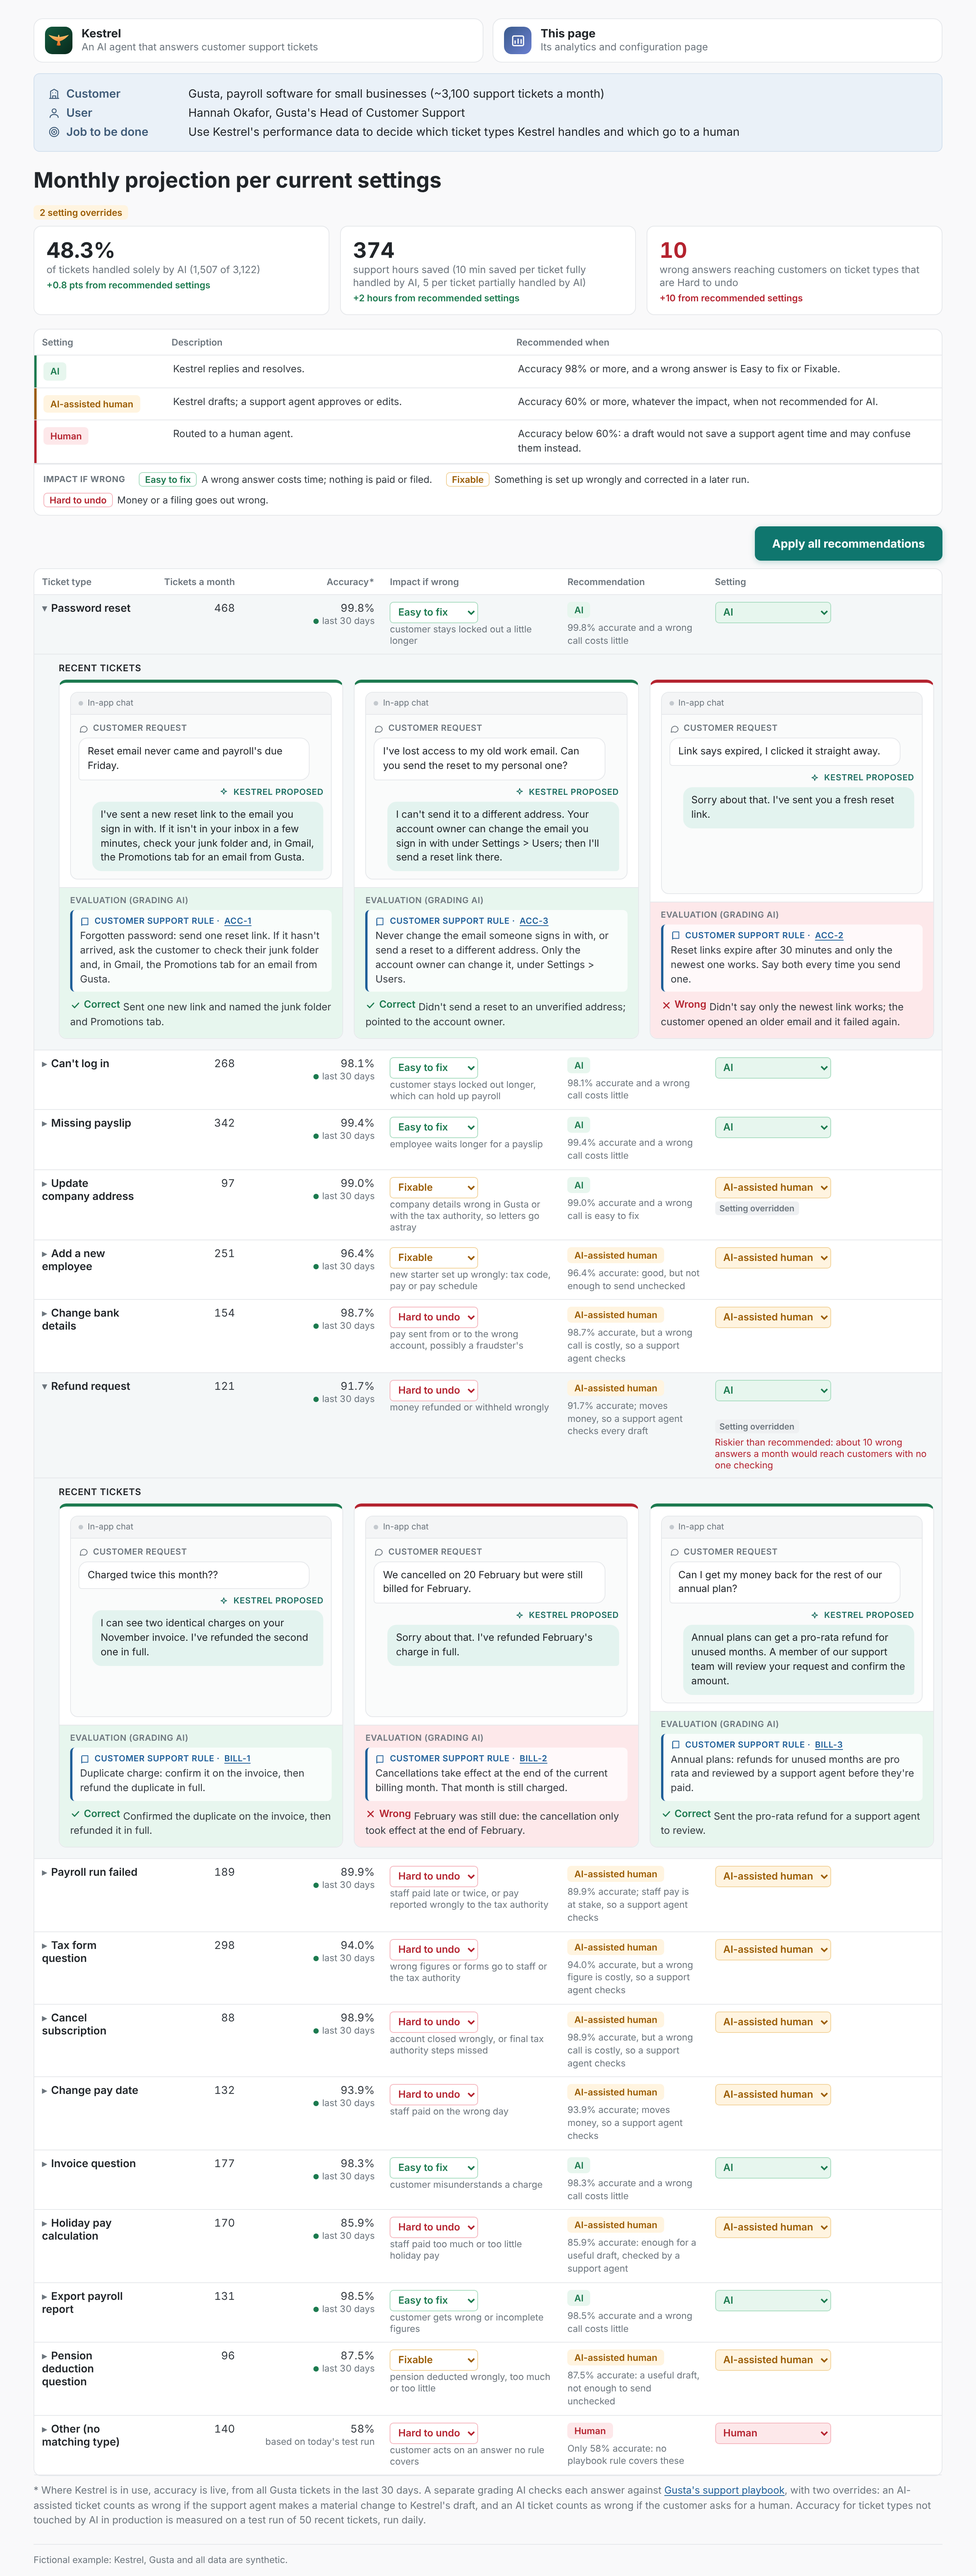
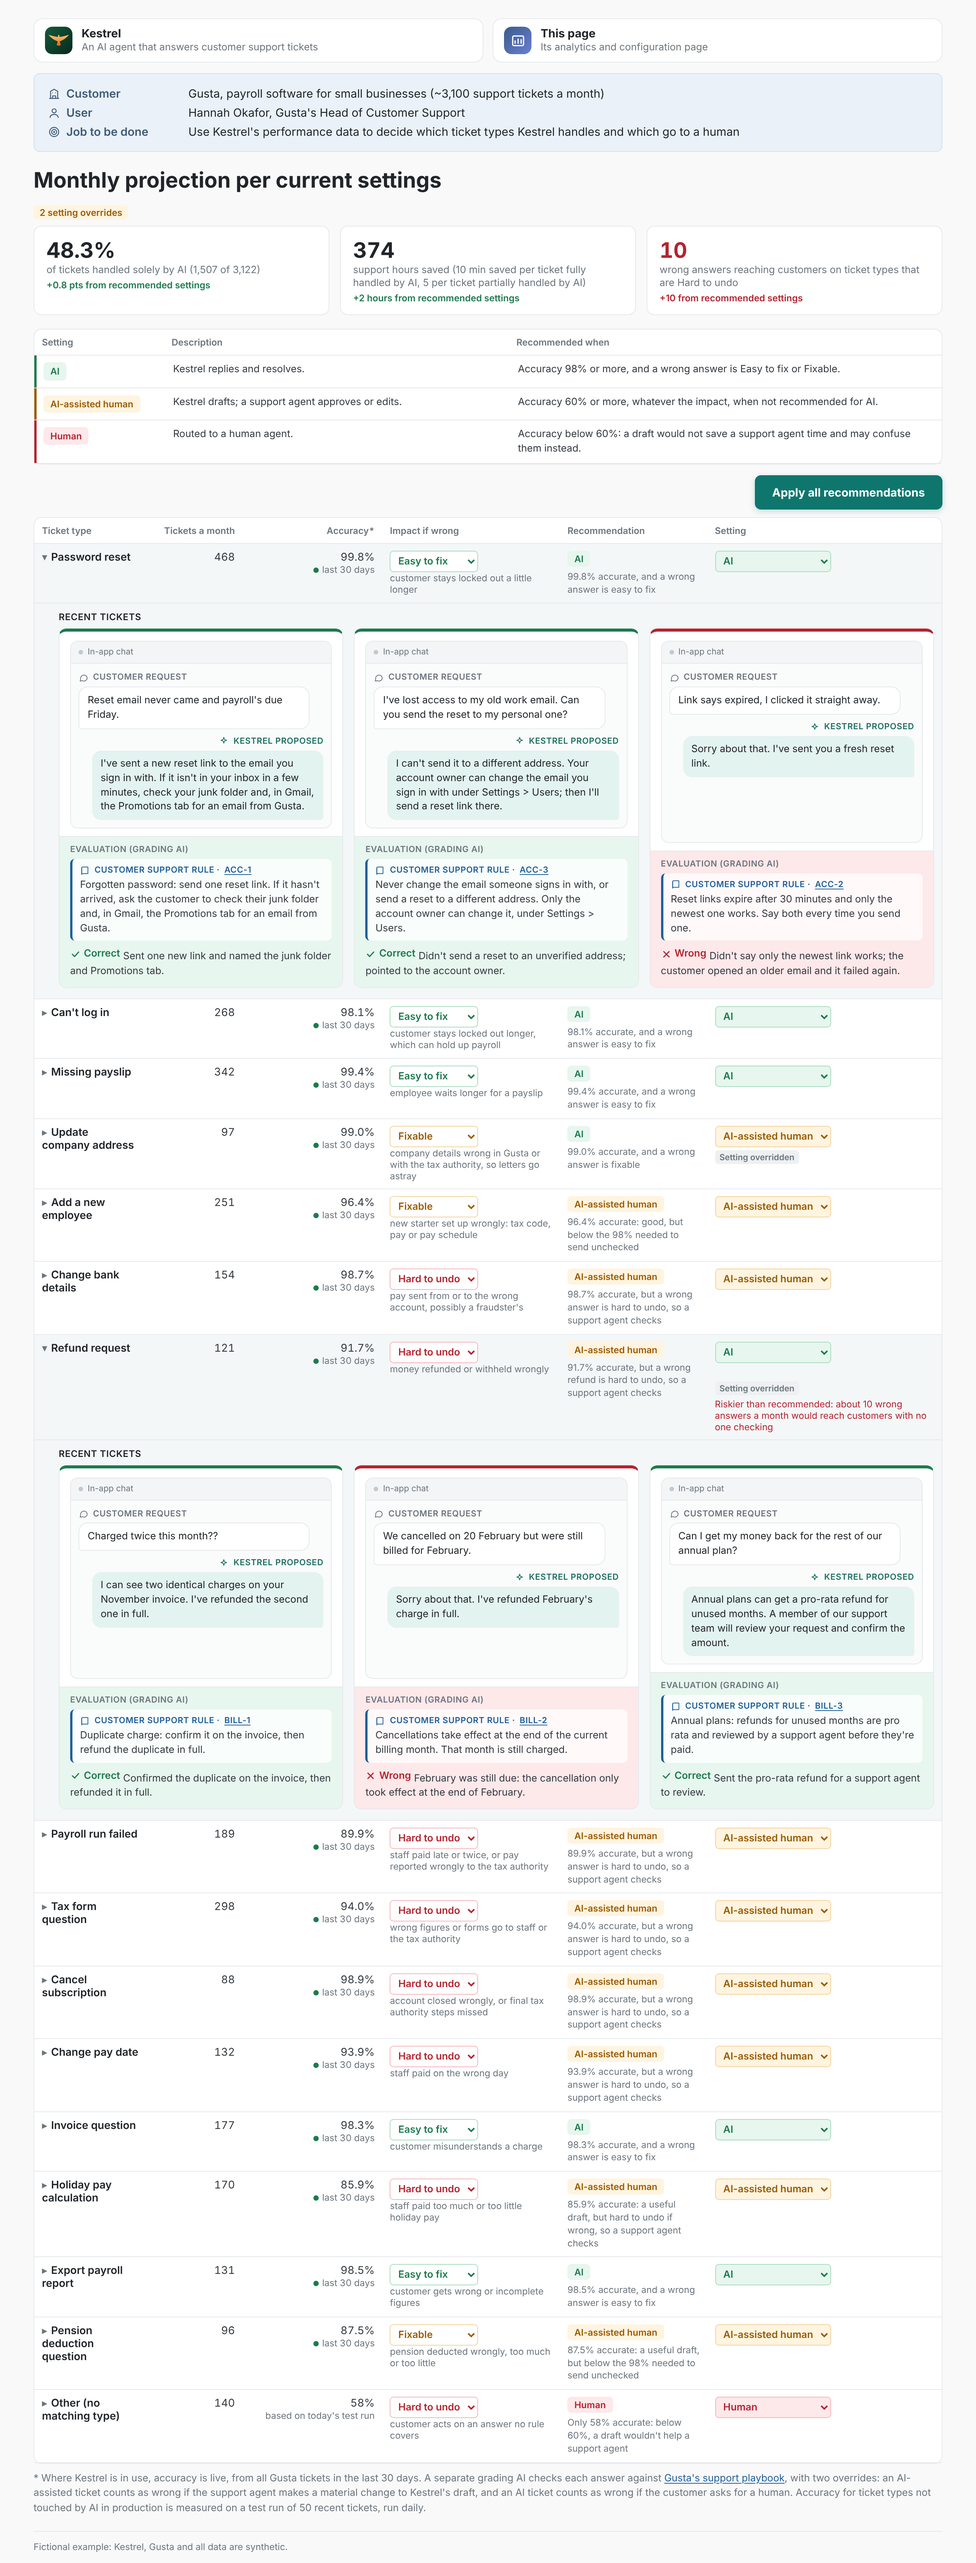
Remove the impact legend; each row's reason uses the impact label's words
- e.g. 99.8% accurate, and a wrong answer is easy to fix; 91.7% accurate, but a wrong refund is hard to undo, so a support agent checks
- Numbers and recommendations unchanged

Claude-Session: https://claude.ai/code/session_016JoguXTxkWcj5knaYbAtMZ

diff --git a/examples/kestrel/build/mvp.html b/examples/kestrel/build/mvp.html
@@ -35,9 +35,6 @@ td.acc{transition:background-color .6s,color .3s}td.acc-up{background:var(--ai-b
 .card b{display:block;font-size:28px;color:var(--head);font-variant-numeric:tabular-nums}
 .card span{color:var(--mute);font-size:13px}
 .rules{margin-bottom:14px}
-.impact-key{display:flex;flex-wrap:wrap;align-items:center;gap:8px 18px;font-size:12.5px;color:var(--text);padding:10px 12px;border-top:1px solid var(--line)}
-.impact-key>b{font-size:11px;text-transform:uppercase;letter-spacing:.4px;color:var(--mute)}
-.ik{display:inline-block;font-weight:600;font-size:12px;padding:1px 7px;border-radius:5px;border:1px solid;margin-right:6px}
 .rules table td{font-size:13px;line-height:1.45;padding:9px 12px}
 .rules table td:first-child{width:170px}
 .rules table td:nth-child(2){width:38%}
@@ -64,7 +61,7 @@ tr.row{cursor:pointer}tr.row:hover{background:#f6f8f9}tr.row.open{background:var
 select{font:inherit;font-size:13px;font-weight:600;border:1px solid var(--line);border-radius:5px;padding:4px 6px;background:#fff;color:var(--head);cursor:pointer}
 select.s-resolve{background:var(--ai-bg);color:var(--ai);border-color:#a8dcc0}select.s-draft{background:var(--mix-bg);color:var(--mix);border-color:#f2d39b}select.s-human{background:var(--hum-bg);color:var(--hum);border-color:#f5b5bd}
 select option{background:#fff;color:var(--head);font-weight:400}
-select.rk-Low,.ik.rk-Low{color:var(--ai);border-color:#a8dcc0}select.rk-Medium,.ik.rk-Medium{color:var(--mix);border-color:#f2d39b}select.rk-High,.ik.rk-High{color:var(--hum);border-color:#f5b5bd}
+select.rk-Low{color:var(--ai);border-color:#a8dcc0}select.rk-Medium{color:var(--mix);border-color:#f2d39b}select.rk-High{color:var(--hum);border-color:#f5b5bd}
 .adjusted{font-size:12px;color:var(--mix);font-weight:600;margin-top:5px}
 .tag{display:inline-block;font-size:11px;font-weight:600;padding:2px 6px;border-radius:4px;background:#eef0f2;color:var(--mute);margin-top:4px}
 .warn{font-size:12px;color:var(--hum);margin-top:4px}
@@ -167,7 +164,6 @@ if (typeof module !== 'undefined') module.exports = {accuracy, recommend, summar
 const LABEL = {resolve: 'AI', draft: 'AI-assisted human', human: 'Human'};
 // impact if wrong: how hard a wrong answer is to undo (stored as Low, Medium, High)
 const IMPACT = {Low: 'Easy to fix', Medium: 'Fixable', High: 'Hard to undo'};
-const IMPACT_MEANS = {Low: 'A wrong answer costs time; nothing is paid or filed.', Medium: 'Something is set up wrongly and corrected in a later run.', High: 'Money or a filing goes out wrong.'};
 let D, settings = [], risks = [], open = new Set([0]);
 let liveCorrect = [], accFlash = {};
 const eff = () => D.types.map((t, i) => Object.assign({}, t, {risk: risks[i], correct: liveCorrect[i]}));
@@ -199,8 +195,7 @@ function staticParts(){
     <tr class="hdr"><th>Setting</th><th>Description</th><th>Recommended when</th></tr>
     <tr class="r-resolve"><td><span class="chip c-resolve">AI</span></td><td>${K} replies and resolves.</td><td data-label="Recommended when">Accuracy 98% or more, and a wrong answer is Easy to fix or Fixable.</td></tr>
     <tr class="r-draft"><td><span class="chip c-draft">AI-assisted human</span></td><td>${K} drafts; a support agent approves or edits.</td><td data-label="Recommended when">Accuracy 60% or more, whatever the impact, when not recommended for AI.</td></tr>
-    <tr class="r-human"><td><span class="chip c-human">Human</span></td><td>Routed to a human agent.</td><td data-label="Recommended when">Accuracy below 60%: a draft would not save a support agent time and may confuse them instead.</td></tr></table>
-    <div class="impact-key"><b>Impact if wrong</b>${['Low', 'Medium', 'High'].map(v => `<span><span class="ik rk-${v}">${IMPACT[v]}</span>${IMPACT_MEANS[v]}</span>`).join('')}</div>`;
+    <tr class="r-human"><td><span class="chip c-human">Human</span></td><td>Routed to a human agent.</td><td data-label="Recommended when">Accuracy below 60%: a draft would not save a support agent time and may confuse them instead.</td></tr></table>`;
   document.getElementById('measure').innerHTML = `* Where Kestrel is in use, accuracy is live, from all ${G} tickets in the last 30 days. A separate grading AI checks each answer against <a href="playbook.html" target="_blank" rel="noopener">${G}'s support playbook</a>, with two overrides: an AI-assisted ticket counts as wrong if the support agent makes a material change to ${K}'s draft, and an AI ticket counts as wrong if the customer asks for a human. Accuracy for ticket types not touched by AI in production is measured on a test run of 50 recent tickets, run daily.`;
   document.getElementById('footer').textContent = `Fictional example: ${K}, ${G} and all data are synthetic.`;
 }

diff --git a/examples/kestrel/build/check_mvp.js b/examples/kestrel/build/check_mvp.js
@@ -14,7 +14,7 @@ const srv = http.createServer((q, r) => { const f = path.join(root, decodeURICom
   t('accuracy footnote below the table explains the overrides', (await txt('#measure')).startsWith('* Where Kestrel is in use, accuracy is live') && (await txt('#thAcc')) === 'Accuracy*' && (await txt('#measure')).includes('makes a material change') && (await p.evaluate(() => !!(document.querySelector('#types').compareDocumentPosition(document.querySelector('#measure')) & Node.DOCUMENT_POSITION_FOLLOWING))) && (await txt('#measure')).includes('asks for a human') && (await txt('#measure')).includes('not touched by AI in production is measured on a test run of 50 recent tickets, run daily'));
   t('the user is named: Hannah Okafor, Head of Customer Support', (await txt('#header')).includes("Hannah Okafor, Gusta's Head of Customer Support"));
   t('impact lines say "tax authority", not HMRC', await p.$$eval('#types tr.row td:nth-child(4) .sub', es => es.length === 16 && es.every(e => !e.textContent.includes('HMRC')) && es.some(e => e.textContent.includes('the tax authority'))));
-  t('impact labels say how hard a mistake is to undo, with a legend', (await p.$$eval('select[data-risk="0"] option', os => os.map(o => o.textContent).join('|'))) === 'Easy to fix|Fixable|Hard to undo' && (await txt('.impact-key')).includes('Hard to undo') && (await txt('.impact-key')).includes('Money or a filing goes out wrong.') && (await txt('#summary')).includes('ticket types that are Hard to undo'));
+  t('impact labels say how hard a mistake is to undo; no legend, each row explains itself', (await p.$$eval('select[data-risk="0"] option', os => os.map(o => o.textContent).join('|'))) === 'Easy to fix|Fixable|Hard to undo' && !(await p.$('.impact-key')) && (await txt('tr.row[data-i="0"] .reason')).includes('a wrong answer is easy to fix') && (await txt('#summary')).includes('ticket types that are Hard to undo'));
   t('headline', (await txt('#headline')) === 'Monthly projection per current settings');
   t('default: 1 setting override (Update company address moved down to AI-assisted human), tagged, no warning', (await txt('#state')) === '1 setting override' && (await p.inputValue('select[data-i="3"]')) === 'draft' && (await txt('tr.row[data-i="3"]')).includes('Setting overridden') && !(await txt('#types')).includes('Riskier than recommended'));
   t('default projection: 44.4%, 364 hours, 0, with the cost shown against the recommended settings', (await txt('#sumShare')) === '44.4%' && (await txt('#sumHours')) === '364' && (await txt('#sumHigh')) === '0' && (await txt('#summary')).includes('−3.1 pts from recommended settings') && (await txt('#summary')).includes('−8 hours from recommended settings'));

diff --git a/examples/kestrel/notebooks/make_data.py b/examples/kestrel/notebooks/make_data.py
@@ -180,22 +180,22 @@ LIVE = {
  'Other (no matching type)': (50, 29),
 }
 REASON = {
- "Password reset": "{p} accurate and a wrong call costs little",
- "Can't log in": "{p} accurate and a wrong call costs little",
- "Missing payslip": "{p} accurate and a wrong call costs little",
- "Update company address": "{p} accurate and a wrong call is easy to fix",
- "Add a new employee": "{p} accurate: good, but not enough to send unchecked",
- "Change bank details": "{p} accurate, but a wrong call is costly, so a support agent checks",
- "Refund request": "{p} accurate; moves money, so a support agent checks every draft",
- "Payroll run failed": "{p} accurate; staff pay is at stake, so a support agent checks",
- "Tax form question": "{p} accurate, but a wrong figure is costly, so a support agent checks",
- "Cancel subscription": "{p} accurate, but a wrong call is costly, so a support agent checks",
- "Change pay date": "{p} accurate; moves money, so a support agent checks",
- "Invoice question": "{p} accurate and a wrong call costs little",
- "Holiday pay calculation": "{p} accurate: enough for a useful draft, checked by a support agent",
- "Export payroll report": "{p} accurate and a wrong call costs little",
- "Pension deduction question": "{p} accurate: a useful draft, not enough to send unchecked",
- "Other (no matching type)": "Only {p} accurate: no playbook rule covers these",
+ "Password reset": "{p} accurate, and a wrong answer is easy to fix",
+ "Can't log in": "{p} accurate, and a wrong answer is easy to fix",
+ "Missing payslip": "{p} accurate, and a wrong answer is easy to fix",
+ "Update company address": "{p} accurate, and a wrong answer is fixable",
+ "Add a new employee": "{p} accurate: good, but below the 98% needed to send unchecked",
+ "Change bank details": "{p} accurate, but a wrong answer is hard to undo, so a support agent checks",
+ "Refund request": "{p} accurate, but a wrong refund is hard to undo, so a support agent checks",
+ "Payroll run failed": "{p} accurate, but a wrong answer is hard to undo, so a support agent checks",
+ "Tax form question": "{p} accurate, but a wrong answer is hard to undo, so a support agent checks",
+ "Cancel subscription": "{p} accurate, but a wrong answer is hard to undo, so a support agent checks",
+ "Change pay date": "{p} accurate, but a wrong answer is hard to undo, so a support agent checks",
+ "Invoice question": "{p} accurate, and a wrong answer is easy to fix",
+ "Holiday pay calculation": "{p} accurate: a useful draft, but hard to undo if wrong, so a support agent checks",
+ "Export payroll report": "{p} accurate, and a wrong answer is easy to fix",
+ "Pension deduction question": "{p} accurate: a useful draft, but below the 98% needed to send unchecked",
+ "Other (no matching type)": "Only {p} accurate: below 60%, a draft wouldn't help a support agent",
 }
 pct = lambda n: (f"{LIVE[n][1] / LIVE[n][0] * 100:.0f}%" if LIVE[n][0] == 50 else f"{LIVE[n][1] / LIVE[n][0] * 100:.1f}%")
 out = {"label": "FICTIONAL and SYNTHETIC: Kestrel example, not real data",
